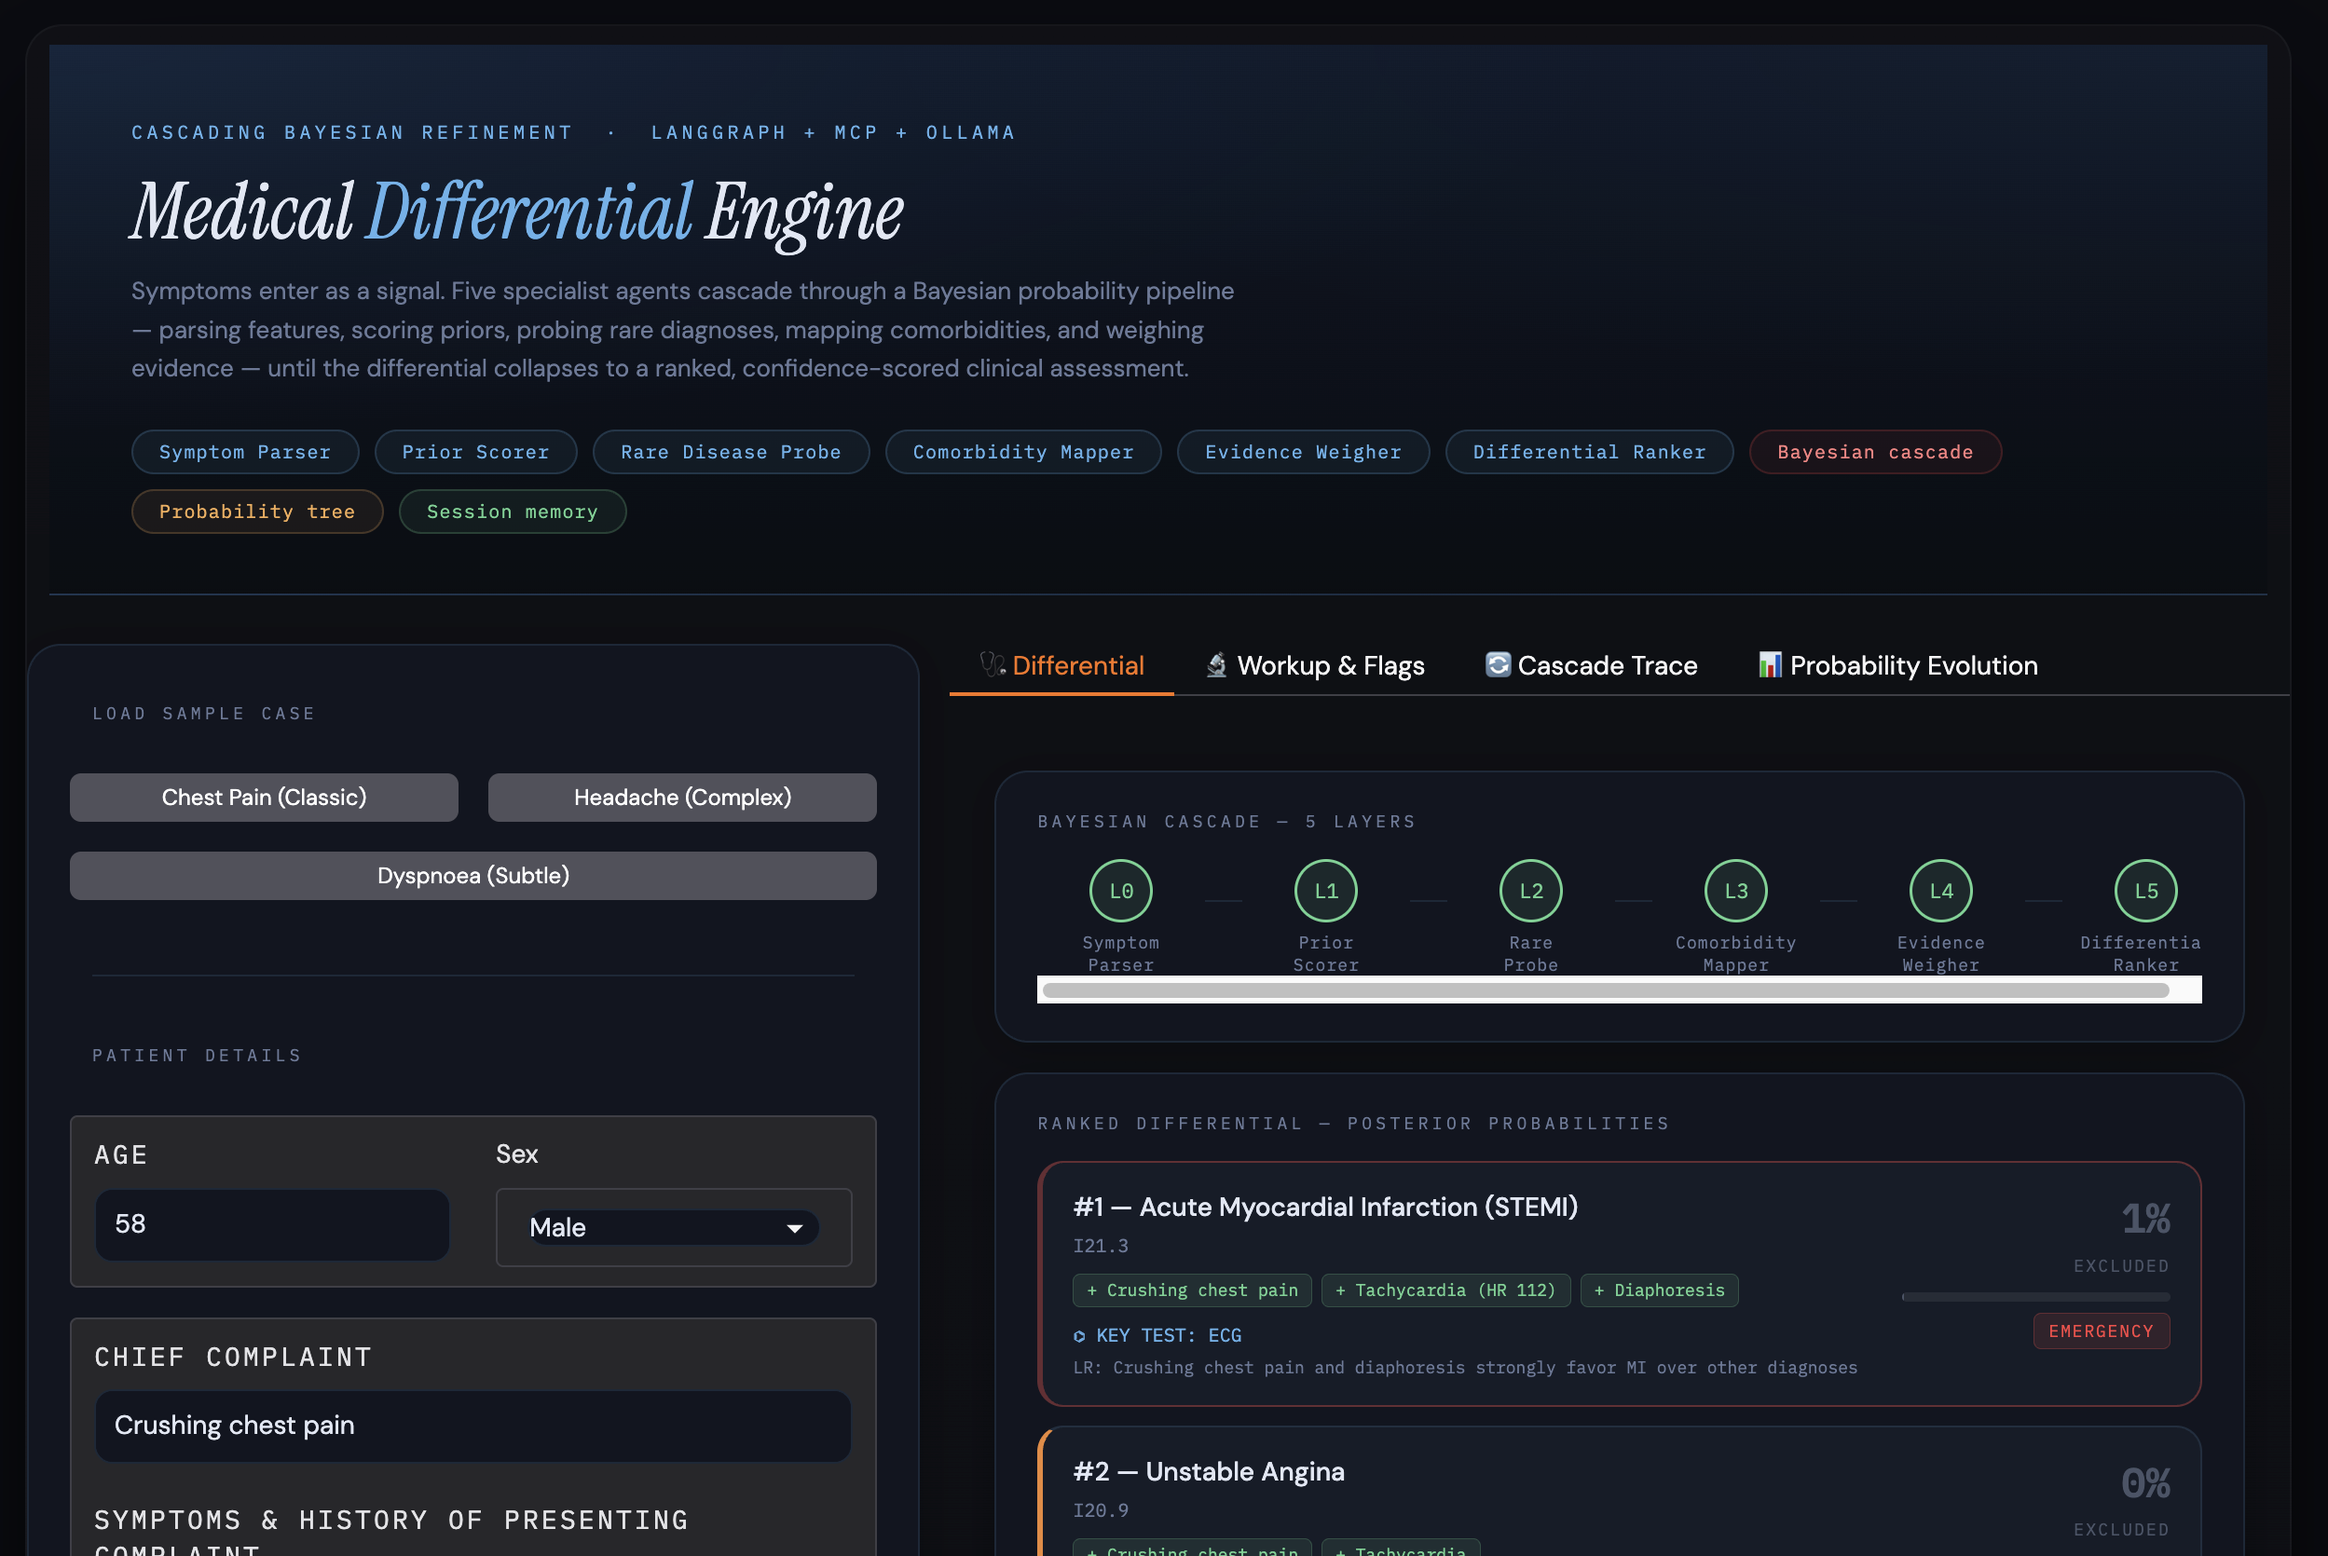
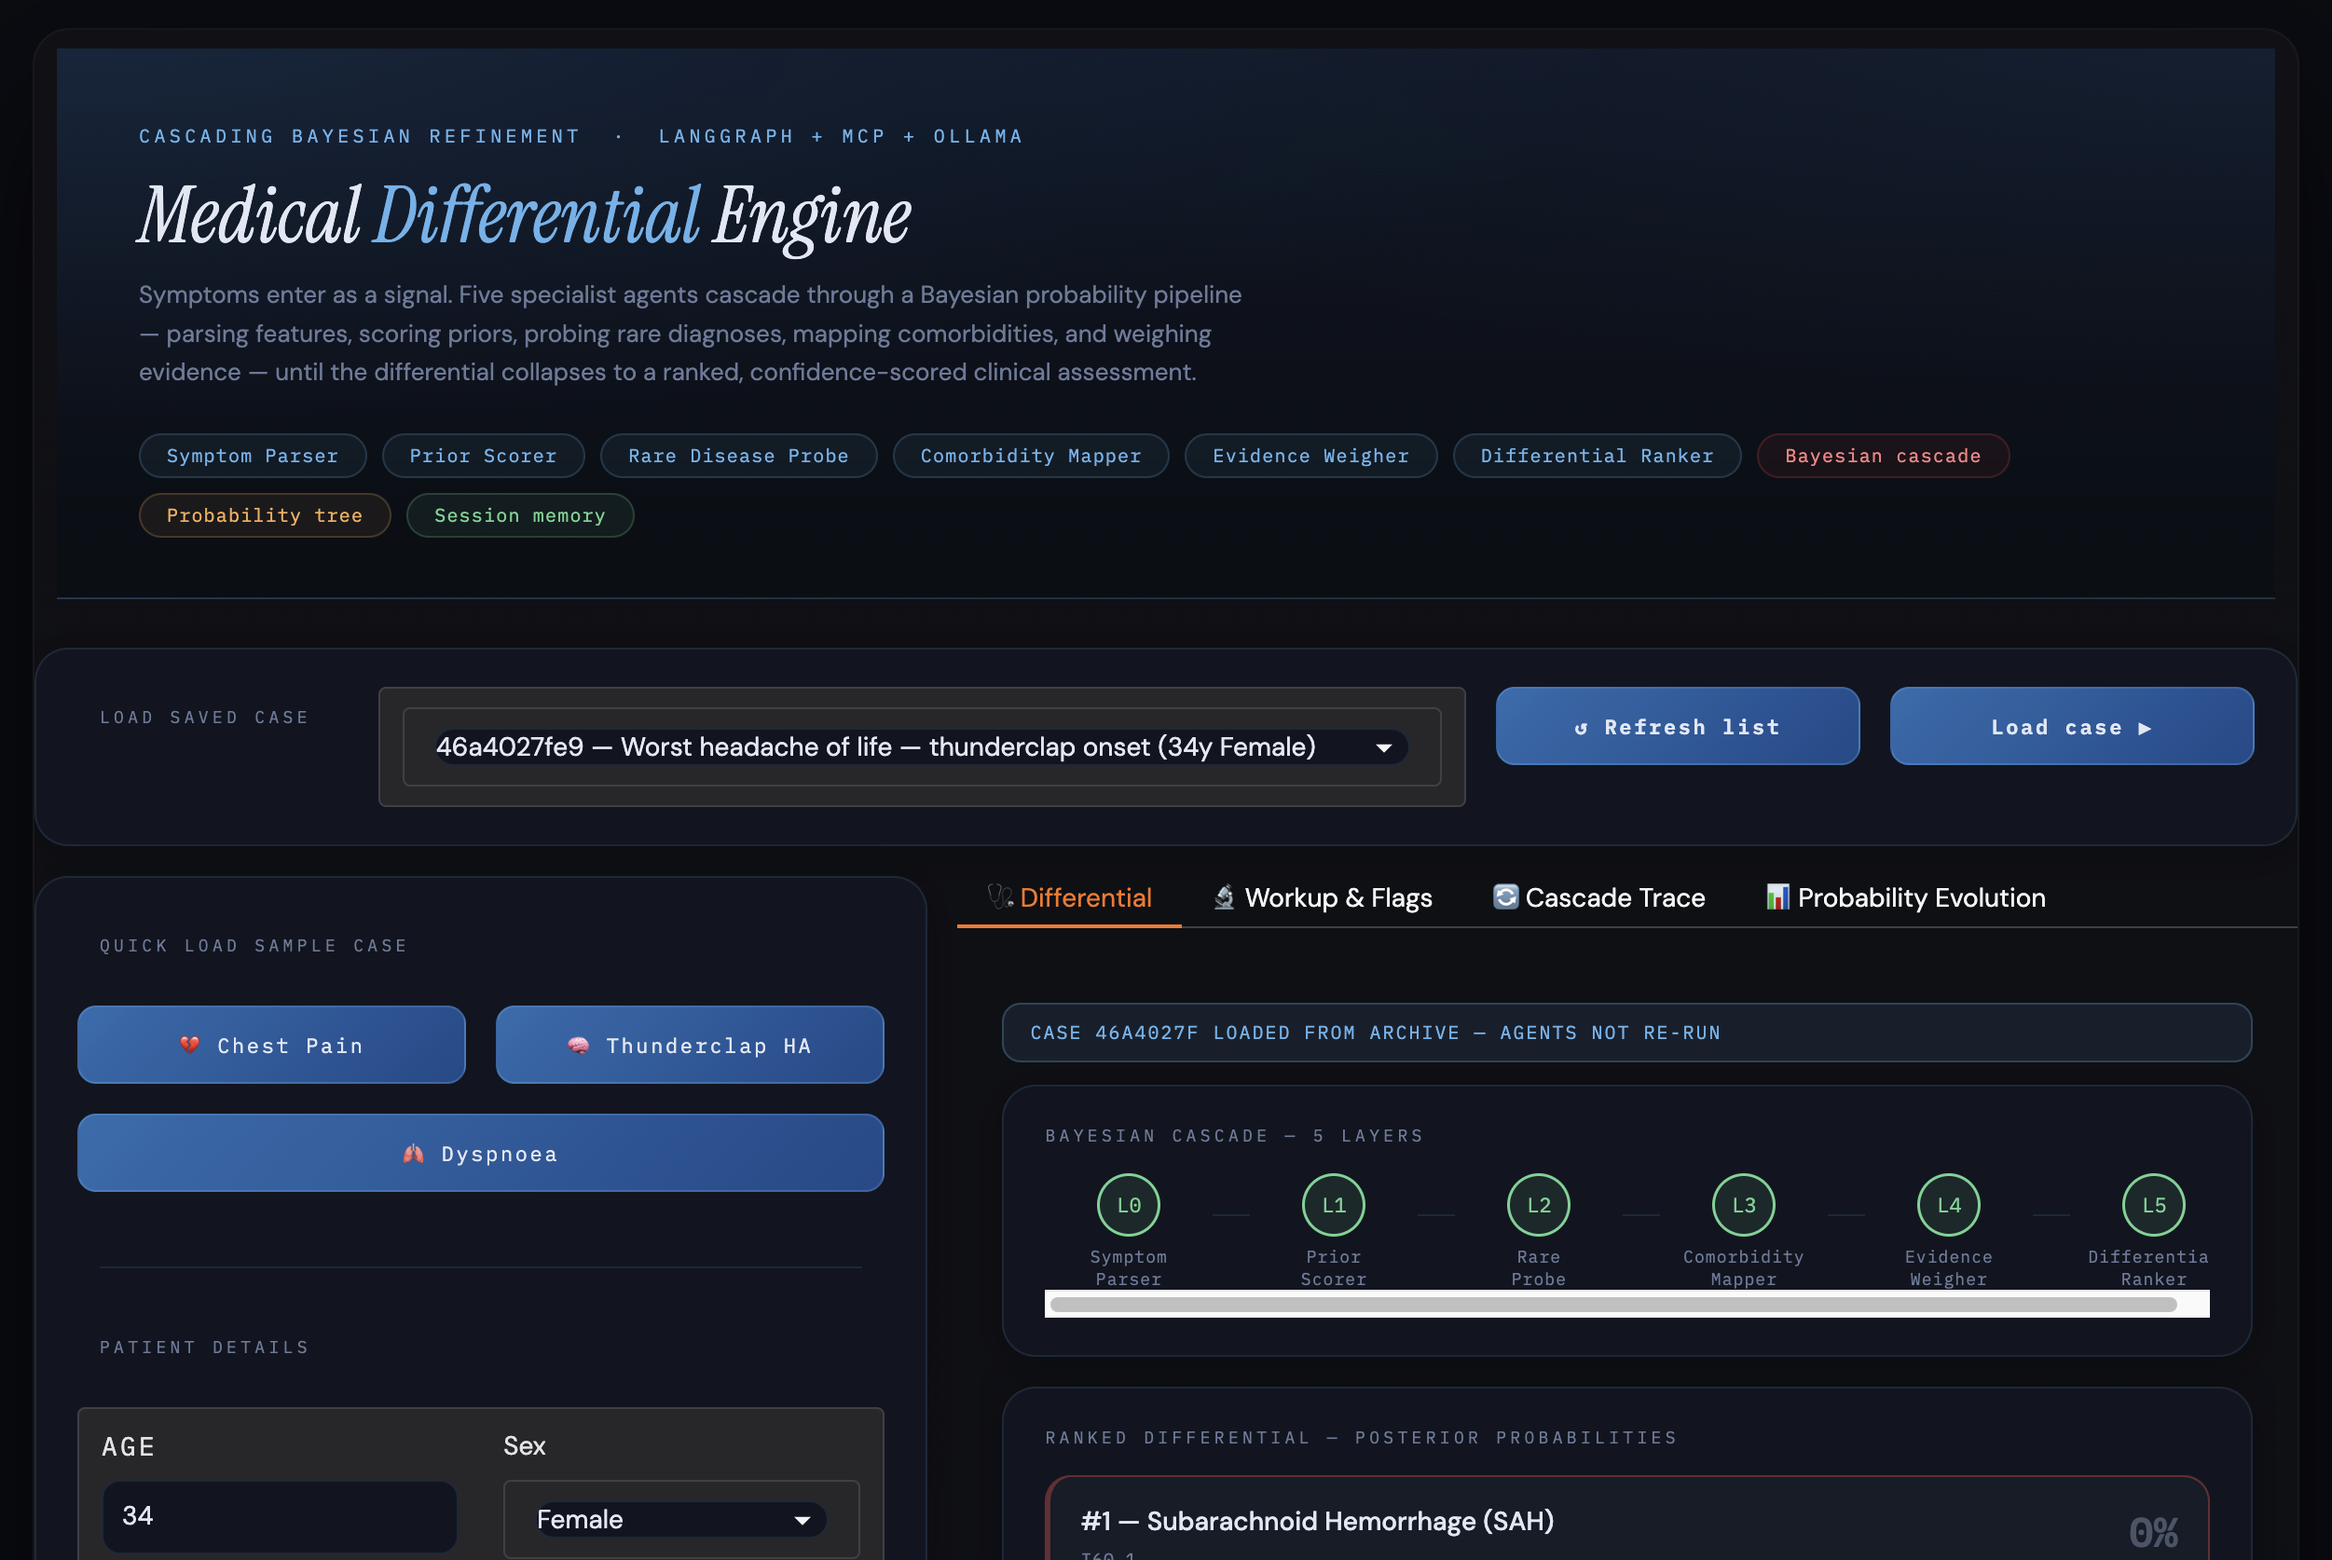
Fix the bug and image

diff --git a/Medical Differential Engine/ui/css.py b/Medical Differential Engine/ui/css.py
@@ -431,6 +431,26 @@ footer { display: none !important; }
   color: var(--muted);
 }
 
+/* ── archive loader row — force both buttons identical height & style ── */
+.gradio-container button.primary {
+  height: 42px !important;
+  min-height: 42px !important;
+}
+.gradio-container button.secondary {
+  height: 42px !important;
+  min-height: 42px !important;
+  background: linear-gradient(135deg, #2b6cb0, #1a4a8a) !important;
+  border: 1px solid rgba(99,179,237,0.25) !important;
+  color: #e2e8f4 !important;
+  font-family: var(--mono) !important;
+  font-size: 11px !important;
+  letter-spacing: 0.12em !important;
+  border-radius: 10px !important;
+}
+.gradio-container button.secondary:hover {
+  background: linear-gradient(135deg, #3182ce, #2b6cb0) !important;
+}
+
 /* ── empty state ── */
 .mde-empty {
   text-align: center;

diff --git a/Medical Differential Engine/app.py b/Medical Differential Engine/app.py
@@ -443,8 +443,8 @@ with gr.Blocks(css=APP_CSS, title="Medical Differential Engine") as demo:
                 scale=4,
                 show_label=False,
             )
-            refresh_cases_btn = gr.Button("↺ Refresh", variant="secondary", scale=1, size="sm")
-            load_case_btn     = gr.Button("Load case  ▶", variant="primary", scale=1, size="sm")
+            refresh_cases_btn = gr.Button("↺  Refresh list", variant="primary", scale=1)
+            load_case_btn     = gr.Button("Load case  ▶",   variant="primary", scale=1)
 
         with gr.Row():
             # ── LEFT: input form ──────────────────────────────────────────────
